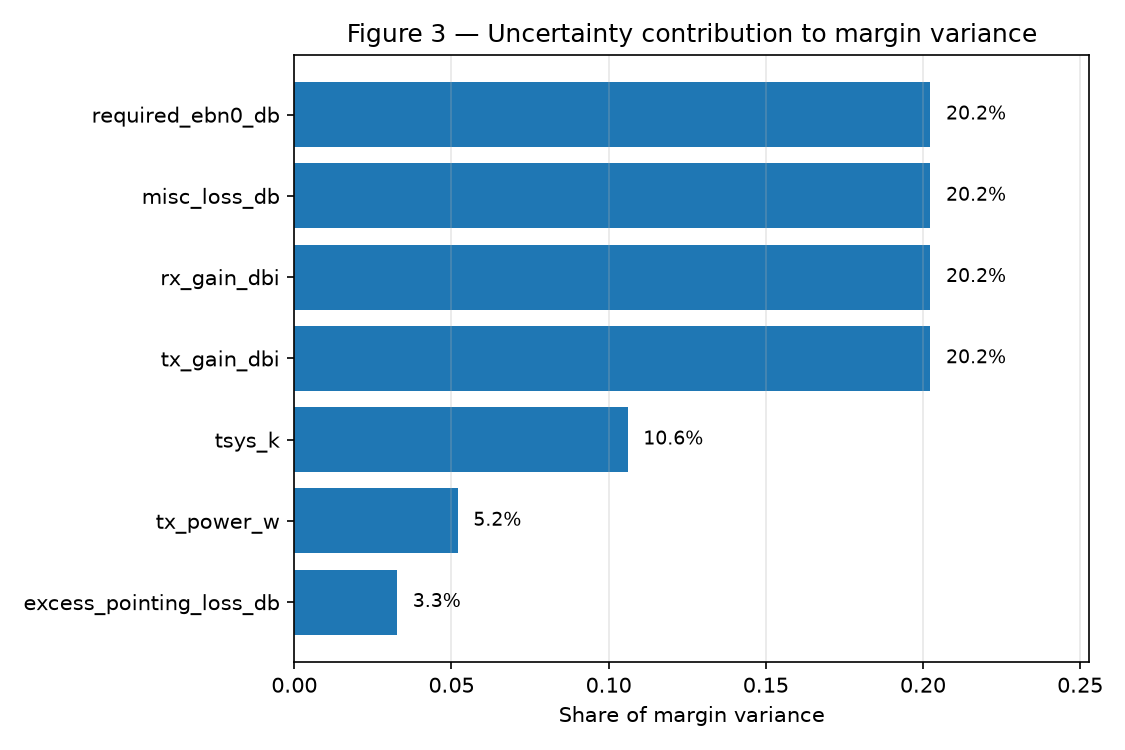
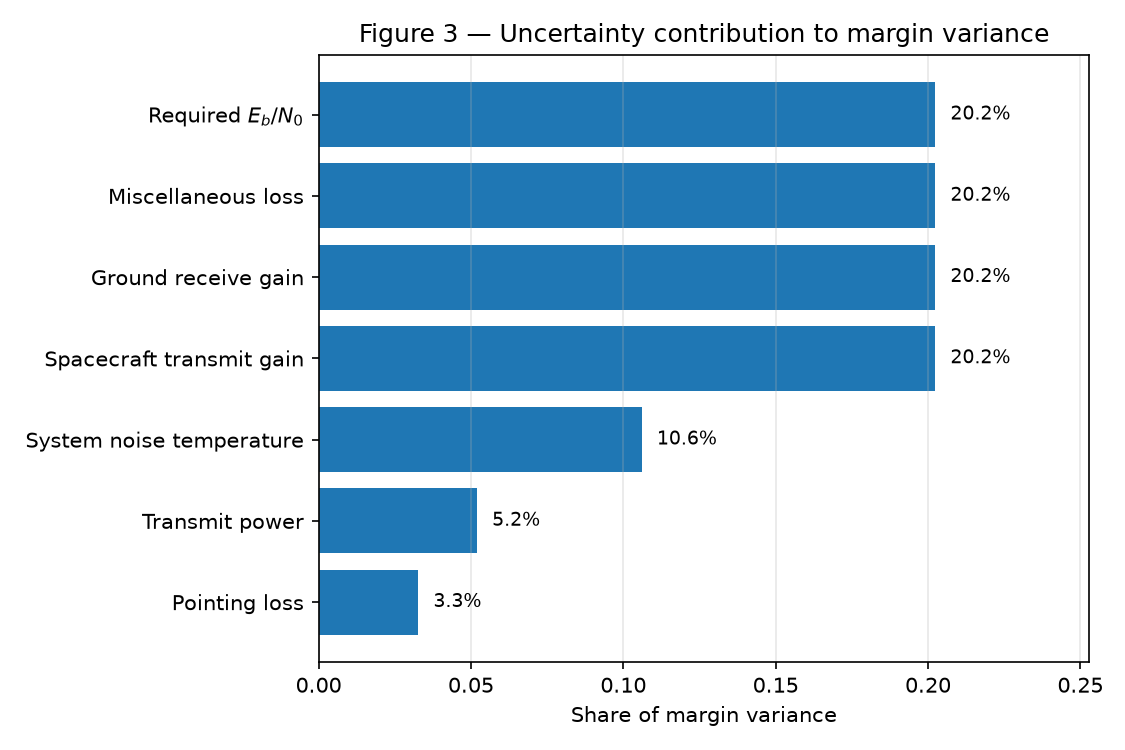
Polish verification and uncertainty figure labels
- scripts/verify_link_budget.py: the M1 FSPL verification residual panel
  now plots library-minus-reference explicitly in mdB with matplotlib's
  offset/scientific-notation formatter disabled, a fixed y-range around
  the true -2.217 mdB residual, a mean-reference line, and an annotation
  explaining the nearly-constant offset is the reference formula's
  rounded 32.45 constant, not numerical noise. Previously the default
  axis formatter rendered this as an unreadable 1e-11/scientific-offset
  label. No value is zeroed or hidden -- the real ~2.217 mdB discrepancy
  is now directly readable.
- scripts/run_uncertainty_study.py: the M3 sensitivity-contribution bar
  chart now shows professional engineering labels ("Transmit power",
  "Spacecraft transmit gain", "Ground receive gain", "Pointing loss",
  "Miscellaneous loss", "System noise temperature", "Required Eb/N0")
  instead of internal parameter keys (tx_power_w, tx_gain_dbi, etc.).
  Display-only mapping; underlying keys, data, ordering (by contribution
  magnitude, unchanged), and percentages (20.2/20.2/20.2/20.2/10.6/5.2/3.3%)
  are untouched.

Numerical verification: all headline results unchanged -- FSPL max
discrepancy 2.217 mdB, N0 discrepancy 0.83 mdB, nominal margin +1.484 dB,
mean MC margin +1.341 dB, sigma 0.664 dB, P(close) 0.9779, 95%-closure
data rate 2.075 Mbps / range 412,420 km. 121/121 tests pass, unchanged.

diff --git a/scripts/verify_link_budget.py b/scripts/verify_link_budget.py
@@ -30,6 +30,7 @@ import matplotlib
 
 matplotlib.use("Agg")
 import matplotlib.pyplot as plt  # noqa: E402
+import matplotlib.ticker as mticker  # noqa: E402
 import numpy as np  # noqa: E402
 
 from baseline_scenario import build_baseline  # noqa: E402
@@ -81,12 +82,37 @@ def main() -> None:
     ax1.set_title(f"FSPL verification at {freq_mhz:.0f} MHz")
     ax1.grid(True, which="both", alpha=0.3)
 
-    ax2.plot(ranges_km, fspl_diff * 1e3, color="firebrick")
+    # Residual in millidB, computed explicitly (not just reused from fspl_diff)
+    # so the plotted quantity is unambiguous: library minus independent
+    # reference, in mdB. The result is essentially constant with range
+    # (~-2.217 mdB) -- it is not numerical noise, it is the rounding of the
+    # independent reference's 32.45 constant (see docs/verification.md).
+    # Matplotlib's default offset/scientific-notation y-axis formatter would
+    # otherwise render this as a near-unreadable "1e-11 - 2.216778116"
+    # label; disable it and fix a sensible y-range around the true value
+    # instead so the ~2.217 mdB result reads directly off the axis.
+    delta_fspl_mdb = 1000.0 * fspl_diff
+    mean_residual_mdb = float(np.mean(delta_fspl_mdb))
+
+    ax2.plot(ranges_km, delta_fspl_mdb, color="firebrick", lw=1.5)
+    ax2.axhline(mean_residual_mdb, color="black", lw=1, linestyle="--",
+                label=f"Mean = {mean_residual_mdb:+.3f} mdB")
     ax2.set_xlabel("Slant range (km, log scale)")
-    ax2.set_ylabel("Difference (mdB)")
+    ax2.set_ylabel("FSPL difference (mdB)\n(library − independent reference)")
     ax2.set_xscale("log")
+    ax2.yaxis.set_major_formatter(mticker.ScalarFormatter(useOffset=False))
+    pad = 0.02
+    ax2.set_ylim(mean_residual_mdb - pad, mean_residual_mdb + pad)
     ax2.grid(True, which="both", alpha=0.3)
+    ax2.legend(loc="upper right", fontsize=8)
     ax2.set_title("Library minus independent reference")
+    ax2.annotate(
+        "Nearly constant offset: rounding of the reference\nformula's 32.45 dB constant, not numerical error.\n"
+        f"Max |discrepancy| = {max_abs_diff_mdb:.3f} mdB (<< 0.01 dB).",
+        xy=(0.02, 0.04), xycoords="axes fraction", fontsize=8,
+        va="bottom", ha="left",
+        bbox=dict(boxstyle="round", facecolor="white", edgecolor="gray", alpha=0.9),
+    )
 
     fig.tight_layout()
     fig.savefig(RESULTS_DIR / "verification_fspl_vs_range.png", dpi=150)

diff --git a/scripts/run_uncertainty_study.py b/scripts/run_uncertainty_study.py
@@ -424,10 +424,24 @@ def _fig2_closure_vs_rate(rates_bps, probs, targets, baseline_rate):
     plt.close(fig)
 
 
+#: Display labels for the sensitivity-contribution figure only -- the
+#: underlying parameter keys (used everywhere else: printed reports,
+#: dataframes, uncertainty.UncertaintyModel field names) are unchanged.
+PARAMETER_DISPLAY_LABELS = {
+    "tx_power_w": "Transmit power",
+    "tx_gain_dbi": "Spacecraft transmit gain",
+    "rx_gain_dbi": "Ground receive gain",
+    "excess_pointing_loss_db": "Pointing loss",
+    "misc_loss_db": "Miscellaneous loss",
+    "tsys_k": "System noise temperature",
+    "required_ebn0_db": r"Required $E_b/N_0$",
+}
+
+
 def _fig3_sensitivity_bar(shares, contributions):
     fig, ax = plt.subplots(figsize=(7.5, 5))
     items = sorted(shares.items(), key=lambda kv: kv[1])
-    names = [n for n, _ in items]
+    names = [PARAMETER_DISPLAY_LABELS.get(n, n) for n, _ in items]
     vals = [v for _, v in items]
     bars = ax.barh(names, vals, color="tab:blue")
     for bar, (name, v) in zip(bars, items):

diff --git a/results/uncertainty_report.md b/results/uncertainty_report.md
@@ -1,8 +1,8 @@
 # Milestone 3 Uncertainty & Closure-Probability Report
 
 Master seed: 42
-Baseline Monte Carlo: N = 10,000 samples, runtime = 0.63 ms
-Total script runtime: 0.68 s
+Baseline Monte Carlo: N = 10,000 samples, runtime = 0.89 ms
+Total script runtime: 0.74 s
 
 Nominal (deterministic) worst-case margin: +1.484 dB
 Mean Monte Carlo margin: +1.341 dB (shift -0.143 dB, driven mainly by the asymmetric pointing-loss term)
